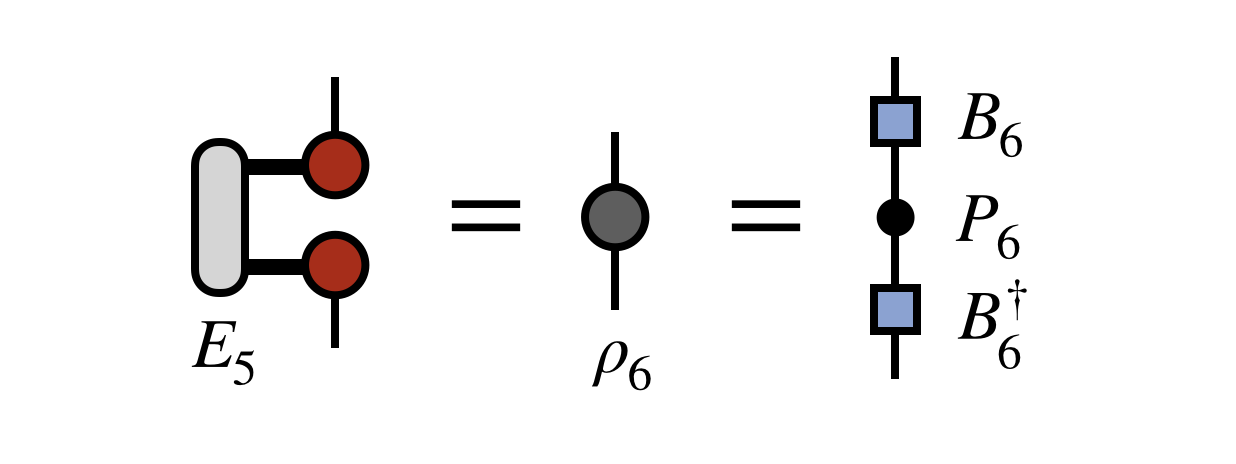
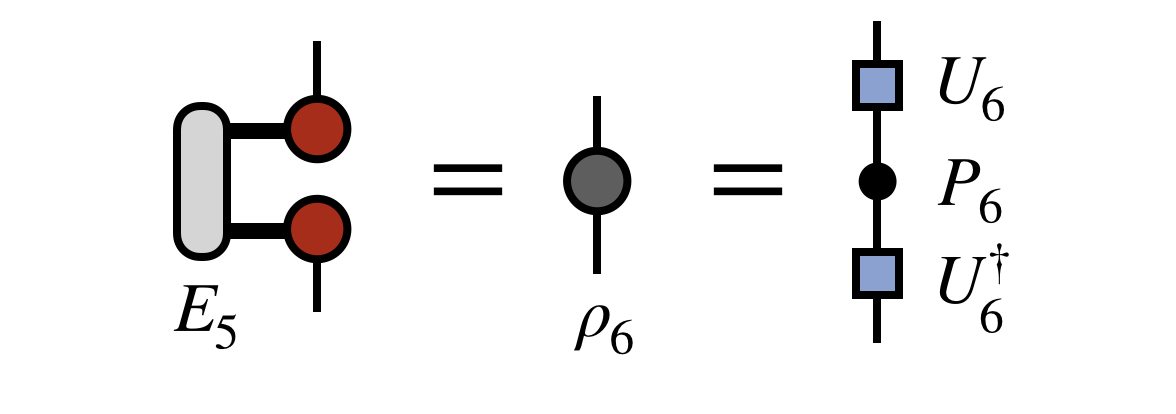
More work on MPS/TT page

diff --git a/src/mps/index.md b/src/mps/index.md
@@ -215,7 +215,7 @@ other [[tree tensor network|ttn]] formats, and more, with the result that these
 inputs are controllably approximated by a single MPS/TT.
 
 The algorithm we follow here was proposed in Ref. \onlinecite{McCulloch:2007}
-and based on the original [[DMRG|DMRG]] concept of White.\cite{White:1992}
+and based on the original [[DMRG|DMRG]] concept of White.\cite{White:1993a}
 However, other approaches to compression include SVD-based 
 compression,\cite{Schollwoeck:2011} such as the TT-SVD algorithm,\cite{Oseledets:2011}
 or variational compression.\cite{Perez-Garcia:2007}
@@ -227,11 +227,14 @@ the original one, in the sense of Euclidean distance (see above discussion of in
 
 ![medium](mpstt_compress.png)
 
-The compression procedure begins with contracting two copies of the input MPS/TT network over all of the external indices, except the last external index. The intuition here is that the MPS/TT form is generated by a repeated SVD of a tensor. Just as an SVD of a matrix $M$ can be computed by diagonalizing $M^\dagger M$ and $M M^\dagger$, the MPS/TT here appears twice for the same reason.
-
-To compute the contraction of the two MPS/TT copies efficiently, one forms the intermediate tensors labeled $E_1$, $E_2$, etc. below. These tensors are assumed to be saved for use in later steps of the algorithm as we will see.
+The compression procedure begins with contracting two copies of the input MPS/TT network over all of the external indices, except the last external index. 
 
 ![medium](dm_comput.png)
+
+
+The intuition here is that the MPS/TT form is generated by a repeated SVD of a tensor. Just as an SVD of a matrix $M$ can be computed by diagonalizing $M^\dagger M$ and $M M^\dagger$, the MPS/TT appears twice in the diagrams above for the same reason.
+
+To compute the contraction of the two MPS/TT copies efficiently, one forms the intermediate tensors labeled $E_1$, $E_2$, etc. as shown above. These tensors are saved for use in later steps of the algorithm, as will become clearer below.
 
 Having computed all of the $E_j$ tensors, it is now possible to form the object $\rho_6$ below, which in physics is called a _reduced density matrix_, but more simply is the square of the tensor represented by the network, summed over all but its last index:
 
@@ -239,8 +242,6 @@ Having computed all of the $E_j$ tensors, it is now possible to form the object 
 
 To begin forming the new, compressed MPS/TT, one diagonalizes $\rho_6$ as shown in the last expression above. It is a manifestly Hermitian matrix, so it can always be diagonalized by a unitary $U_6$, which is the box-shaped matrix in the last diagram above.
 
+Crucially, at this step one only keeps the $m$ largest eigenvalues of $\rho_6$, discarding the rest and truncating the corresponding columns of $U_6$. The reason for this trunction is that the unitary $U_6$ is actually the first piece of the new, compressed MPS/TT we are constructing, which we wanted to have bond dimension $m$. In passing, we note that other truncation strategies are possible, such as truncating based on a threshold for small versus large eigenvalues, or even stochastically truncating by sampling over the eigenvalues.\cite{Ferris:2015}.
 
-
-
-
-
+![medium](diag_rho56.png)
